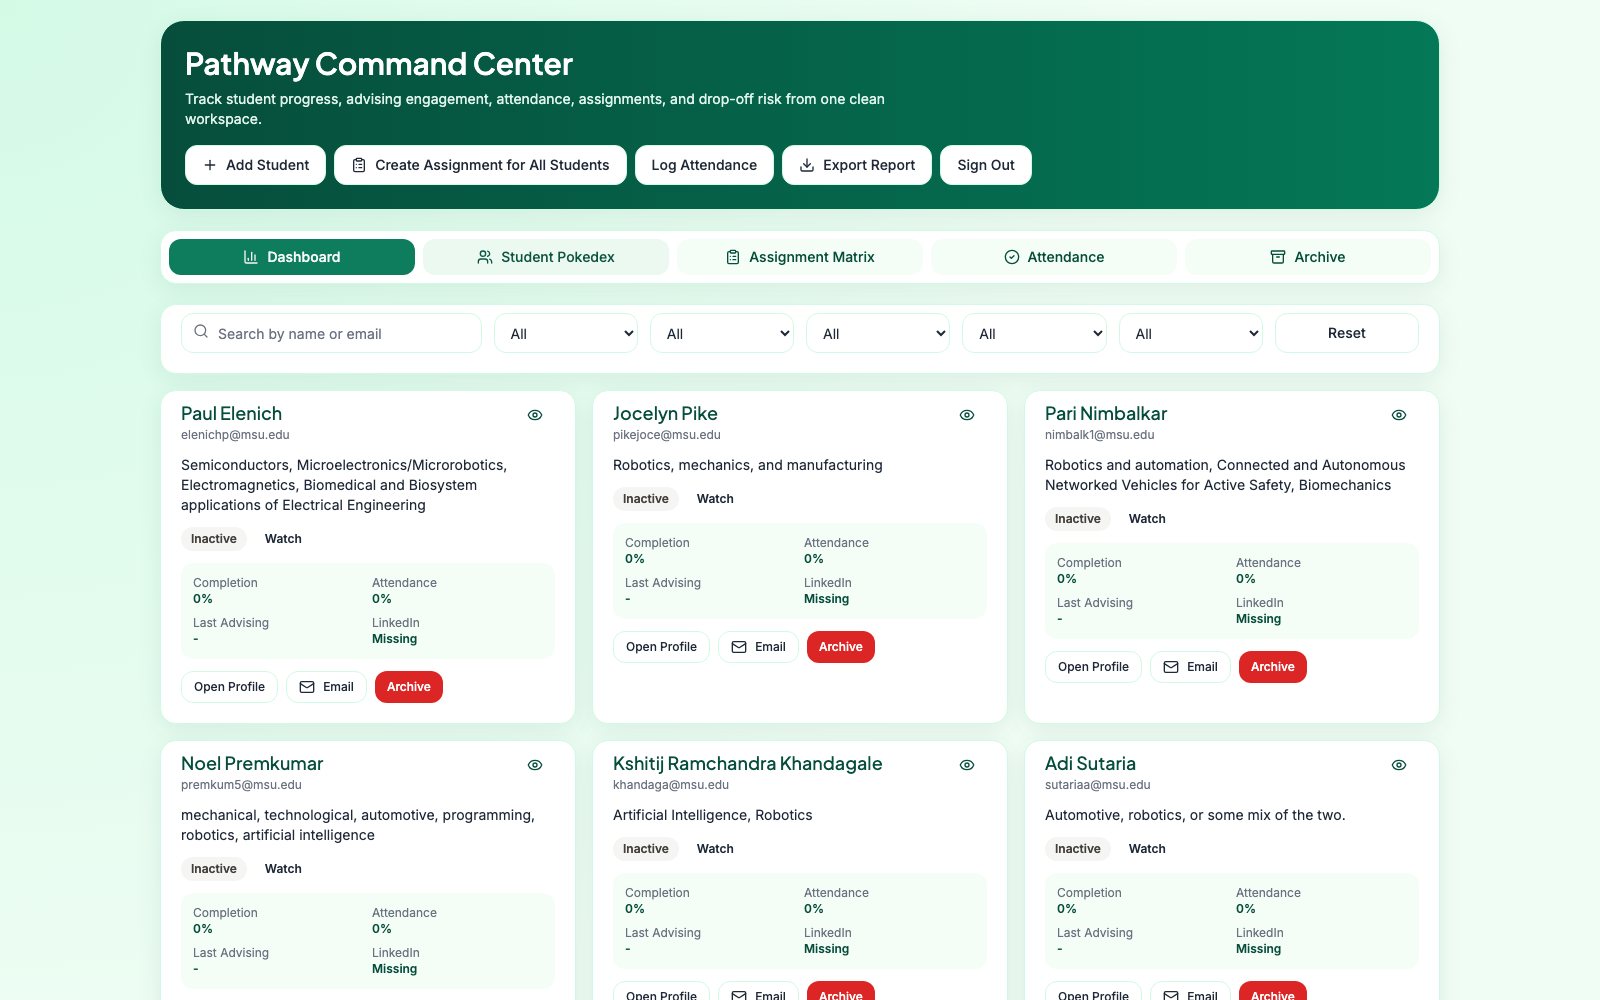
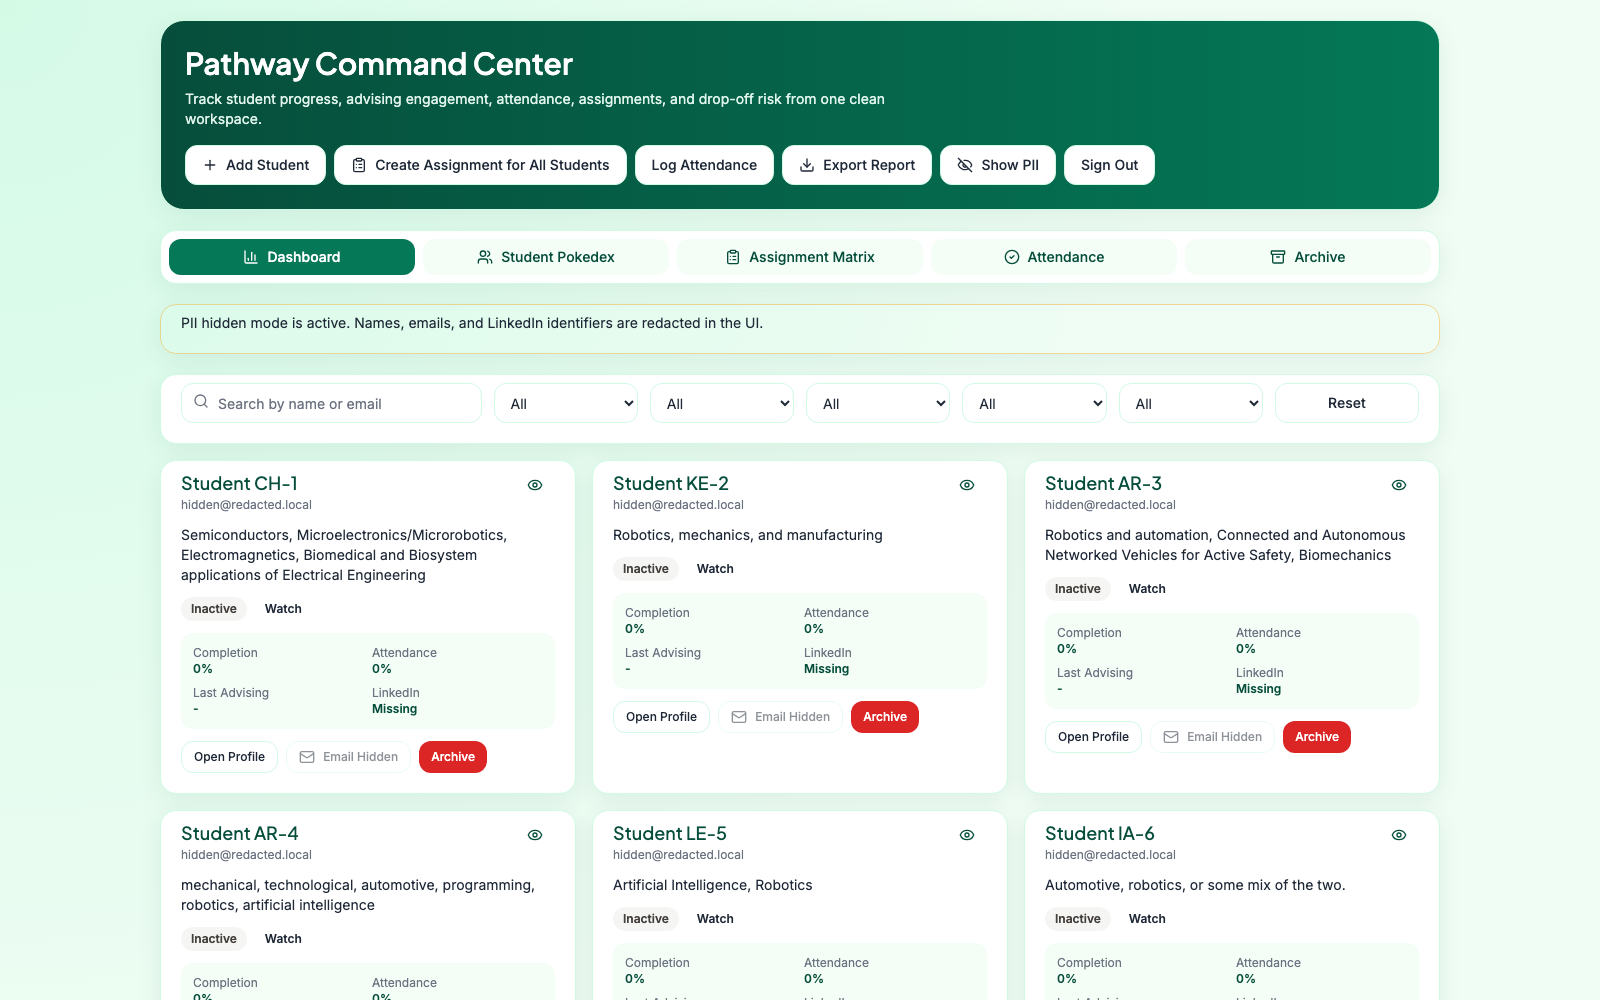
Add Hide PII mode and regenerate redacted showcase screenshots

Changed region(s): [[0.0938, 0.279, 0.9062, 1.0], [0.375, 0.93, 0.5625, 1.0], [0.5938, 0.124, 0.7188, 0.186]]

diff --git a/src/App.tsx b/src/App.tsx
@@ -5,6 +5,7 @@ import {
   CheckCircle2,
   ClipboardList,
   Download,
+  EyeOff,
   ExternalLink,
   Eye,
   Mail,
@@ -174,6 +175,7 @@ export function App() {
   const [authUsername, setAuthUsername] = useState("mentor");
   const [authPassword, setAuthPassword] = useState("");
   const [authSubmitting, setAuthSubmitting] = useState(false);
+  const [hidePii, setHidePii] = useState(false);
   const [selectedStudentId, setSelectedStudentId] = useState<string | null>(null);
   const [filters, setFilters] = useState<StudentFilters>(INITIAL_FILTERS);
   const [showAddStudent, setShowAddStudent] = useState(false);
@@ -371,6 +373,12 @@ export function App() {
 
   const recentlyAdvised = useMemo(() => getRecentlyAdvisedStudents(activeStudents), [activeStudents]);
   const needingAttention = useMemo(() => getStudentsNeedingAttention(activeStudents), [activeStudents]);
+
+  const getStudentDisplayName = (student: Student) =>
+    hidePii ? `Student ${student.id.slice(-4).toUpperCase()}` : student.name;
+
+  const getStudentDisplayEmail = (student: Student) =>
+    hidePii ? "hidden@redacted.local" : student.email;
 
   const handleCreateStudent = async () => {
     if (!newStudent.name.trim() || !newStudent.email.trim()) {
@@ -589,7 +597,7 @@ export function App() {
                   className="flex items-center justify-between rounded-xl border border-soft-green p-3"
                 >
                   <div>
-                    <p className="font-medium text-charcoal">{student.name}</p>
+                    <p className="font-medium text-charcoal">{getStudentDisplayName(student)}</p>
                     <p className="text-xs text-muted">{student.dropOffRisk.reasons[0]}</p>
                   </div>
                   <Badge tone={student.dropOffRisk.level}>{student.dropOffRisk.level}</Badge>
@@ -614,7 +622,7 @@ export function App() {
                   className="flex items-center justify-between rounded-xl border border-soft-green p-3"
                 >
                   <div>
-                    <p className="font-medium text-charcoal">{student.name}</p>
+                    <p className="font-medium text-charcoal">{getStudentDisplayName(student)}</p>
                     <p className="text-xs text-muted">Last advised: {formatDate(getLastAdvisingDate(student))}</p>
                   </div>
                   <Button
@@ -782,8 +790,8 @@ export function App() {
                 <CardContent className="space-y-3">
                   <div className="flex items-start justify-between gap-3">
                     <div>
-                      <h3 className="font-heading text-lg text-deep-green">{student.name}</h3>
-                      <p className="text-xs text-muted">{student.email}</p>
+                      <h3 className="font-heading text-lg text-deep-green">{getStudentDisplayName(student)}</h3>
+                      <p className="text-xs text-muted">{getStudentDisplayEmail(student)}</p>
                     </div>
                     <Button
                       variant="ghost"
@@ -831,19 +839,27 @@ export function App() {
                     <Button
                       variant="secondary"
                       size="sm"
-                      onClick={() => window.open(`mailto:${student.email}`, "_blank")}
+                      disabled={hidePii}
+                      onClick={() => {
+                        if (hidePii) return;
+                        window.open(`mailto:${student.email}`, "_blank");
+                      }}
                     >
                       <Mail className="h-4 w-4" />
-                      Email
+                      {hidePii ? "Email Hidden" : "Email"}
                     </Button>
                     {student.linkedinUrl && (
                       <Button
                         variant="secondary"
                         size="sm"
-                        onClick={() => window.open(student.linkedinUrl, "_blank")}
+                        disabled={hidePii}
+                        onClick={() => {
+                          if (hidePii) return;
+                          window.open(student.linkedinUrl, "_blank");
+                        }}
                       >
                         <ExternalLink className="h-4 w-4" />
-                        LinkedIn
+                        {hidePii ? "LinkedIn Hidden" : "LinkedIn"}
                       </Button>
                     )}
                     <Button
@@ -1035,7 +1051,7 @@ export function App() {
                 {matrixRows.map(({ student }) => (
                   <tr key={student.id} className="rounded-xl bg-pale-green/60">
                     <td className="rounded-l-xl border border-soft-green bg-white px-2 py-3 font-medium">
-                      {student.name}
+                      {getStudentDisplayName(student)}
                     </td>
                     {assignmentOptions.map((assignment) => {
                       const record = student.assignments[assignment.id];
@@ -1162,7 +1178,7 @@ export function App() {
               <div className="grid gap-2 md:grid-cols-2 xl:grid-cols-3">
                 {activeStudents.map((student) => (
                   <div key={student.id} className="flex items-center gap-2">
-                    <span className="min-w-0 flex-1 truncate text-xs text-charcoal">{student.name}</span>
+                    <span className="min-w-0 flex-1 truncate text-xs text-charcoal">{getStudentDisplayName(student)}</span>
                     <Select
                       className="h-8 w-[120px] text-xs"
                       value={attendanceOverrides[student.id] ?? attendanceSessionForm.defaultStatus}
@@ -1217,7 +1233,7 @@ export function App() {
                   className="flex items-center justify-between rounded-xl border border-soft-green px-3 py-2"
                 >
                   <div>
-                    <p className="text-sm font-medium text-charcoal">{student.name}</p>
+                    <p className="text-sm font-medium text-charcoal">{getStudentDisplayName(student)}</p>
                     <p className="text-xs text-muted">
                       {entry.sessionTitle} • {formatDate(entry.date)}
                     </p>
@@ -1251,8 +1267,8 @@ export function App() {
               <CardContent className="space-y-3">
                 <div className="flex items-center justify-between">
                   <div>
-                    <h3 className="font-heading text-lg text-deep-green">{student.name}</h3>
-                    <p className="text-xs text-muted">{student.email}</p>
+                    <h3 className="font-heading text-lg text-deep-green">{getStudentDisplayName(student)}</h3>
+                    <p className="text-xs text-muted">{getStudentDisplayEmail(student)}</p>
                   </div>
                   <Badge tone="Dropped">Archived</Badge>
                 </div>
@@ -1304,7 +1320,7 @@ export function App() {
           <div className="mb-4 flex items-start justify-between gap-3">
             <div>
               <h2 className="font-heading text-2xl text-deep-green">Student Profile</h2>
-              <p className="text-sm text-muted">{selectedStudent.name}</p>
+              <p className="text-sm text-muted">{getStudentDisplayName(selectedStudent)}</p>
             </div>
             <Button variant="secondary" onClick={() => setSelectedStudentId(null)}>
               Close
@@ -1318,8 +1334,10 @@ export function App() {
               </CardHeader>
               <CardContent className="grid gap-3 md:grid-cols-2">
                 <Input
-                  value={selectedStudent.name}
+                  value={hidePii ? "Hidden in PII mode" : selectedStudent.name}
+                  readOnly={hidePii}
                   onChange={(event) => {
+                    if (hidePii) return;
                     const value = event.target.value;
                     void persistMutation((draft) => {
                       const target = draft.students.find((item) => item.id === selectedStudent.id);
@@ -1329,8 +1347,10 @@ export function App() {
                   }}
                 />
                 <Input
-                  value={selectedStudent.email}
+                  value={hidePii ? "hidden@redacted.local" : selectedStudent.email}
+                  readOnly={hidePii}
                   onChange={(event) => {
+                    if (hidePii) return;
                     const value = event.target.value;
                     void persistMutation((draft) => {
                       const target = draft.students.find((item) => item.id === selectedStudent.id);
@@ -1365,8 +1385,10 @@ export function App() {
                 />
                 <Input
                   placeholder="LinkedIn URL"
-                  value={selectedStudent.linkedinUrl}
+                  value={hidePii ? "Hidden in PII mode" : selectedStudent.linkedinUrl}
+                  readOnly={hidePii}
                   onChange={(event) => {
+                    if (hidePii) return;
                     const value = event.target.value;
                     void persistMutation((draft) => {
                       const target = draft.students.find((item) => item.id === selectedStudent.id);
@@ -2113,6 +2135,13 @@ export function App() {
                 <Download className="h-4 w-4" />
                 Export Report
               </Button>
+              <Button
+                variant="secondary"
+                onClick={() => setHidePii((current) => !current)}
+              >
+                <EyeOff className="h-4 w-4" />
+                {hidePii ? "Show PII" : "Hide PII"}
+              </Button>
               <Button variant="secondary" onClick={() => void handleLogout()}>
                 Sign Out
               </Button>
@@ -2143,6 +2172,16 @@ export function App() {
             </button>
           ))}
         </nav>
+
+        {hidePii && (
+          <Card className="border-amber/40 bg-amber-50/60">
+            <CardContent>
+              <p className="text-sm text-charcoal">
+                PII hidden mode is active. Names, emails, and LinkedIn identifiers are redacted in the UI.
+              </p>
+            </CardContent>
+          </Card>
+        )}
 
         {error && (
           <Card className="border-risk-red/40">

diff --git a/TECHNICAL_PROCESS_NOTES.md b/TECHNICAL_PROCESS_NOTES.md
@@ -106,3 +106,32 @@
 5. Validation
 - Confirmed screenshots were generated and written under `docs/screenshots`.
 - Confirmed README references match generated screenshot filenames.
+
+---
+
+## Date
+- May 29, 2026
+
+## Scope of this change
+- Add UI privacy toggle to redact PII for public screenshots and demos.
+- Regenerate all documentation screenshots with PII redaction enabled.
+
+## Step-by-step implementation log
+
+1. Added PII redaction mode in frontend
+- Added `Hide PII` / `Show PII` toggle in app header.
+- Added redaction helpers for student display name and email.
+- Redacted high-visibility PII surfaces across dashboard, student cards, matrix, attendance, archive, and profile panel.
+- Disabled direct Email/LinkedIn quick actions while PII mode is enabled.
+- Added visible banner indicating that PII hidden mode is active.
+
+2. Updated screenshot automation
+- Updated `scripts/capture-showcase-screenshots.mjs` to auto-enable PII mode before capturing.
+- Added `HIDE_PII` env switch (defaults to `true`) for capture behavior control.
+
+3. Regenerated documentation screenshots
+- Re-captured all showcase images in `docs/screenshots/` with redaction enabled.
+
+4. Updated docs
+- Updated `README.md` to include PII toggle in features and screenshot command docs.
+- Updated `docs/TECHNICAL_OVERVIEW.md` security notes with PII mode behavior.

diff --git a/README.md b/README.md
@@ -62,6 +62,7 @@ flowchart LR
 - Dashboard KPIs for active/archived students, assignment completion, attendance, advising, and risk.
 - Student Pokedex cards with filters, search, quick actions, and detail drilldown.
 - Full profile drawer with advising cards, attendance history, notes, archive controls, and research profile metadata.
+- `Hide PII` toggle that redacts names, emails, and LinkedIn identifiers for safe demos/screenshots.
 - Global assignment creation that auto-populates assignment records for all active students.
 - Assignment Matrix with per-student status, grade, and feedback inline editing.
 - Attendance session builder with default status and per-student overrides.
@@ -113,10 +114,11 @@ Use this to regenerate all README screenshots automatically:
 APP_URL="https://ptr-tracker.vercel.app" \
 APP_USERNAME="<username>" \
 APP_PASSWORD="<password>" \
+HIDE_PII="true" \
 npm run docs:screenshots
 ```
 
-Screenshots are written to `docs/screenshots/`.
+Screenshots are written to `docs/screenshots/`. `HIDE_PII` defaults to `true`.
 
 ## Additional Technical Docs
 

diff --git a/WORK_DONE.md b/WORK_DONE.md
@@ -78,6 +78,12 @@
   - `docs/TECHNICAL_OVERVIEW.md`
 - Expanded `README.md` with screenshot-driven product tour and stack/architecture explanation.
 
+11. Added PII-safe demo mode
+- Added a global `Hide PII` toggle in the app UI.
+- Redacts student names, emails, and LinkedIn identifiers in high-visibility views.
+- Disables Email/LinkedIn quick actions while redaction mode is enabled.
+- Updated screenshot automation to enable redaction by default and regenerated public docs screenshots.
+
 ## Configuration Added
 
 - `APP_USERNAME` (default: `mentor`)

diff --git a/docs/TECHNICAL_OVERVIEW.md b/docs/TECHNICAL_OVERVIEW.md
@@ -146,6 +146,7 @@ If durable cloud persistence is required on Vercel, recommended next step is a m
 - Credential comparison uses constant-time checks (`timingSafeEqual`).
 - Session TTL is configurable (`SESSION_TTL_SECONDS`).
 - Frontend stores the token in memory only (no localStorage token persistence).
+- UI includes a runtime `Hide PII` mode that redacts student names/emails/LinkedIn fields for demos and public screenshots.
 
 ## 10. Screenshot/Showcase Automation
 
